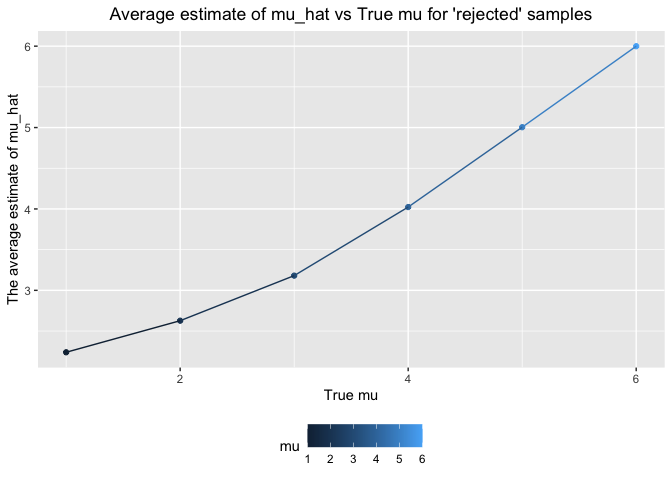
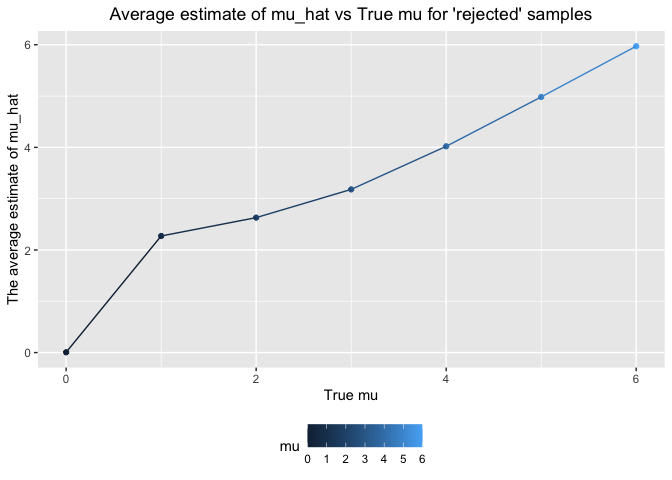
Combine the plot of all samples and the plot of "rejected" samples and save it

diff --git a/p8105_hw5_zc2610.md b/p8105_hw5_zc2610.md
@@ -18,6 +18,7 @@ library(tidyverse)
 
 ``` r
 library(ggplot2)
+library(patchwork)
 ```
 
 # Problem 1
@@ -332,8 +333,9 @@ result_df %>%
 1.  Estimate the proportion of homicides that are unsolved in each city
 
 2.  Tidy hypothesis outputs of the dataframe (Remove “Tulsa,AL” before
-    making hypothesis test since there is no unsolved homicides in this
-    city therefore CI and proportion don’t need to be estimated )
+    making hypothesis test since there is no unsolved homicides and only
+    one homicide in this city therefore CI and proportion don’t need to
+    be estimated )
 
 3.  Create a new dataframe containing variables in num_of_homicide_df
     dataframe and two new variables: City_unsolved_homicide and
@@ -447,25 +449,25 @@ bind_rows(output)
 ```
 
     ## # A tibble: 5,000 × 2
-    ##    mu_hat p_value
-    ##     <dbl>   <dbl>
-    ##  1  0.608   0.477
-    ##  2 -0.313   0.776
-    ##  3  0.472   0.568
-    ##  4  0.162   0.793
-    ##  5 -0.472   0.633
-    ##  6 -0.266   0.783
-    ##  7  0.774   0.470
-    ##  8  0.906   0.284
-    ##  9  0.181   0.856
-    ## 10  0.693   0.473
+    ##     mu_hat p_value
+    ##      <dbl>   <dbl>
+    ##  1  1.21    0.150 
+    ##  2 -1.72    0.0441
+    ##  3  0.0774  0.940 
+    ##  4 -0.772   0.427 
+    ##  5  1.98    0.0349
+    ##  6 -1.20    0.277 
+    ##  7 -0.244   0.840 
+    ##  8  1.70    0.0101
+    ##  9  0.814   0.367 
+    ## 10  0.139   0.904 
     ## # … with 4,990 more rows
 
 Repeat the above for mu={1,2,3,4,5,6}
 
 ``` r
 sim_results = tibble(
-  mu = c(1,2,3,4,5,6)
+  mu = c(0,1,2,3,4,5,6)
 ) %>% 
   mutate(
     output_lists = map(.x = mu,~rerun(5000,sim_estimate_pvalue(30,.x,5))),
@@ -491,20 +493,20 @@ sim_results = sim_results %>%
 sim_results
 ```
 
-    ## # A tibble: 30,000 × 4
-    ##       mu   mu_hat p_value conclusion    
-    ##    <dbl>    <dbl>   <dbl> <chr>         
-    ##  1     1  2.35    0.0343  reject        
-    ##  2     1  0.00302 0.998   fail to reject
-    ##  3     1 -0.213   0.765   fail to reject
-    ##  4     1  0.480   0.564   fail to reject
-    ##  5     1  0.425   0.584   fail to reject
-    ##  6     1  0.293   0.711   fail to reject
-    ##  7     1 -0.263   0.748   fail to reject
-    ##  8     1  0.678   0.531   fail to reject
-    ##  9     1  2.80    0.00349 reject        
-    ## 10     1  0.923   0.419   fail to reject
-    ## # … with 29,990 more rows
+    ## # A tibble: 35,000 × 4
+    ##       mu  mu_hat p_value conclusion    
+    ##    <dbl>   <dbl>   <dbl> <chr>         
+    ##  1     0  0.296  0.770   fail to reject
+    ##  2     0 -2.30   0.00945 reject        
+    ##  3     0 -0.0446 0.961   fail to reject
+    ##  4     0  0.324  0.792   fail to reject
+    ##  5     0 -0.0918 0.931   fail to reject
+    ##  6     0 -0.989  0.321   fail to reject
+    ##  7     0  1.55   0.116   fail to reject
+    ##  8     0  0.440  0.609   fail to reject
+    ##  9     0  0.283  0.783   fail to reject
+    ## 10     0  0.698  0.492   fail to reject
+    ## # … with 34,990 more rows
 
 1.  Count the number of total conclusions with each true mu
 
@@ -609,6 +611,19 @@ average_estimate_mu_reject
 
 ``` r
 ggsave("./plots/Average_estimate_of_mu_hat_vs_True_value_of_mu_for_reject_samples.pdf",average_estimate_mu, width = 8, height = 5)
+```
+
+Combine the plot of all samples and the plot of “rejected” samples
+
+``` r
+combine_plot = average_estimate_mu + average_estimate_mu_reject
+combine_plot
+```
+
+![](p8105_hw5_zc2610_files/figure-gfm/unnamed-chunk-19-1.png)<!-- -->
+
+``` r
+ggsave("./plots/combine_plot.pdf",combine_plot, width = 8, height = 5)
 ```
 
 Answer:
